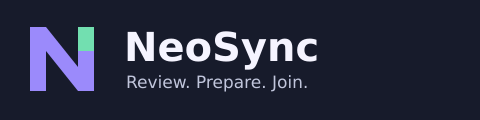
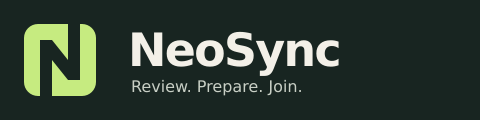
style(branding): introduce the interlocking NeoSync mark

Changed region(s): [[0.25, 0.25, 0.7188, 0.8], [0.0312, 0.2, 0.2188, 0.8]]

diff --git a/docs/neosync/branding-preview.html b/docs/neosync/branding-preview.html
@@ -1,0 +1,96 @@
+<!doctype html>
+<html lang="en">
+<head>
+  <meta charset="utf-8">
+  <meta name="viewport" content="width=device-width, initial-scale=1">
+  <title>NeoSync — Identity preview</title>
+  <style>
+    * { box-sizing: border-box; }
+    body { margin: 0; background: #f3f0e8; color: #182521; font: 16px/1.6 "DejaVu Sans", sans-serif; }
+    main { max-width: 1100px; margin: auto; padding: 36px 24px 64px; }
+    h1 { margin: 0; font-size: clamp(32px, 6vw, 54px); letter-spacing: -2px; }
+    h2 { margin: 32px 0 16px; font-size: 24px; }
+    p { max-width: 720px; }
+    a { color: inherit; text-underline-offset: 4px; }
+    .stage { display: grid; place-items: center; min-height: 330px; padding: 32px; background: #182521; color: #c6eb80; }
+    .stage[data-palette="paper"] { background: #f3f0e8; color: #182521; outline: 1px solid #a8b1a7; outline-offset: -1px; }
+    .stage[data-palette="reverse"] { background: #182521; color: #f3f0e8; }
+    .stage[data-palette="accent"] { background: #c6eb80; color: #182521; }
+    .lockup { display: flex; align-items: center; gap: 18px; }
+    .mark { display: block; width: 138px; height: 138px; flex-shrink: 0; }
+    .wordmark { font-size: clamp(36px, 6vw, 64px); font-weight: bold; letter-spacing: -2.5px; }
+    fieldset { border: 0; padding: 0; margin: 20px 0; display: flex; gap: 16px; flex-wrap: wrap; }
+    legend { padding: 0; margin-bottom: 8px; }
+    label { cursor: pointer; }
+    input { accent-color: #182521; }
+    a:focus-visible, input:focus-visible { outline: 3px solid #496a20; outline-offset: 4px; }
+    .sizes { display: flex; align-items: end; gap: 36px; flex-wrap: wrap; padding: 24px 0; }
+    figure { margin: 0; }
+    figcaption { margin-top: 12px; font-size: 13px; }
+    .sizes img { display: block; image-rendering: auto; }
+    .downloads { display: flex; flex-wrap: wrap; gap: 14px 28px; }
+    .banner { display: block; width: min(100%, 480px); height: auto; }
+    footer { border-top: 1px solid #a8b1a7; margin-top: 40px; padding-top: 20px; font-size: 14px; }
+    @media (max-width: 540px) {
+      main { padding: 24px 16px 40px; }
+      .stage { min-height: 260px; padding: 20px; }
+      .lockup { gap: 8px; }
+      .mark { width: 80px; height: 80px; }
+      .wordmark { font-size: clamp(26px, 8vw, 36px); letter-spacing: -1.5px; }
+    }
+  </style>
+</head>
+<body>
+<main>
+  <h1>NeoSync identity</h1>
+  <p>Two matching elements interlock to suggest synchronization. Their shared opening
+    reveals an N in the negative space. The symbol works in a single color.</p>
+  <fieldset id="palettes">
+    <legend>Preview background and mark</legend>
+    <label><input type="radio" name="palette" value="default" checked> Ink / lime</label>
+    <label><input type="radio" name="palette" value="paper"> Ivory / ink</label>
+    <label><input type="radio" name="palette" value="reverse"> Ink / ivory</label>
+    <label><input type="radio" name="palette" value="accent"> Lime / ink</label>
+  </fieldset>
+  <div class="stage" id="stage" data-palette="default">
+    <div class="lockup">
+      <svg class="mark" viewBox="0 0 100 100" aria-label="NeoSync interlocking mark" role="img">
+        <g fill="currentColor">
+          <path d="M28 14H58V50L42 30H30V86H28A14 14 0 0 1 14 72V28A14 14 0 0 1 28 14Z"/>
+          <path d="M28 14H58V50L42 30H30V86H28A14 14 0 0 1 14 72V28A14 14 0 0 1 28 14Z" transform="rotate(180 50 50)"/>
+        </g>
+      </svg>
+      <span class="wordmark">NeoSync</span>
+    </div>
+  </div>
+  <h2>Actual-size launcher icons</h2>
+  <div class="sizes">
+    <figure><img src="../assets/neosync-icon-16.png" width="16" height="16" alt="NeoSync icon at 16 pixels"><figcaption>16 px</figcaption></figure>
+    <figure><img src="../assets/neosync-icon-32.png" width="32" height="32" alt="NeoSync icon at 32 pixels"><figcaption>32 px</figcaption></figure>
+    <figure><img src="../assets/neosync-icon.png" width="64" height="64" alt="NeoSync icon at 64 pixels"><figcaption>64 px</figcaption></figure>
+    <figure><img src="../assets/neosync-icon.png" width="128" height="128" alt="NeoSync icon at 128 pixels"><figcaption>128 px</figcaption></figure>
+  </div>
+  <h2>Installer banner</h2>
+  <img class="banner" src="../assets/neosync-installer.png" width="480" height="120" alt="NeoSync — Review. Prepare. Join.">
+  <h2>Files</h2>
+  <div class="downloads">
+    <a href="../assets/neosync-mark.svg" download>Editable SVG mark</a>
+    <a href="../assets/neosync-mark.png" download>Transparent PNG · 1024 px</a>
+    <a href="../assets/neosync-social.png" download>Social preview · 1280 × 640</a>
+    <a href="../assets/neosync-branding-preview.png" download>Four color applications</a>
+  </div>
+  <footer>
+    <a href="branding.md">Construction, sources, and usage rules</a> ·
+    <a href="../../README.md">Project README</a>
+    <p>These assets apply to subsequent builds. Previously published installers retain their original graphics.</p>
+  </footer>
+</main>
+<script>
+  document.getElementById('palettes').addEventListener('change', (event) => {
+    if (event.target.name === 'palette') {
+      document.getElementById('stage').dataset.palette = event.target.value;
+    }
+  });
+</script>
+</body>
+</html>

diff --git a/docs/neosync/branding.md b/docs/neosync/branding.md
@@ -1,12 +1,22 @@
 # NeoSync visual identity
 
-NeoSync uses an original geometric N with a violet body, a mint accent, and a
-dark background. The installer, launcher profile, mod list, and repository share
-this identity. The wordmark uses DejaVu Sans. Keep it flat and legible; avoid
-mascots, gradients, textures, and decorative effects.
+NeoSync uses an abstract geometric mark made from two interlocking elements.
+One element is rotated 180 degrees to form its matching counterpart, suggesting
+synchronization between client and server. The shared negative space reveals
+an N. The outer silhouette is a compact loop with two openings; the letter is
+the secondary reading. The opening stays transparent in every color application.
+The installer, launcher profile, mod list, and repository share this identity.
+The wordmark uses DejaVu Sans Bold with compact spacing.
+
+The palette is ink `#182521`, ivory `#f3f0e8`, and lime `#c6eb80`. Use lime on ink
+for launcher icons; use ink on ivory for documentation. Color supplements the
+silhouette; it is not needed to distinguish its two pieces. Keep the identity
+flat and legible; avoid mascots, gradients, textures, and decorative effects.
+The previous violet/mint mark remains part of historical release binaries.
 
 | Asset | Purpose |
 | --- | --- |
+| `docs/assets/neosync-mark.svg`, `neosync-mark.png` | Transparent, monochrome mark; SVG uses `currentColor`, PNG is 1024 × 1024. |
 | `docs/assets/neosync-icon.svg` | Editable square mark and repository header. |
 | `docs/assets/neosync-icon.png` | Installer's launcher-profile icon. |
 | `docs/assets/neosync-icon-16.png`, `neosync-icon-32.png` | Small installer window icons. |
@@ -14,12 +24,40 @@ mascots, gradients, textures, and decorative effects.
 | `docs/assets/neosync-installer.svg` | Editable wordmark and installer banner. |
 | `docs/assets/neosync-installer.png` | Installer banner. |
 | `docs/assets/neosync-social.svg`, `neosync-social.png` | Editable 1280 × 640 GitHub social preview and rendered upload. |
+| `docs/assets/neosync-branding-preview.svg`, `neosync-branding-preview.png` | Four flat color applications and small-size review. |
 | `src/main/resources/neosync_logo.png` | Mod-list banner, generated from the same wordmark. |
 
 After editing the SVGs, run `scripts/render_branding.sh` with librsvg, ImageMagick,
 and DejaVu Sans installed. Commit the generated PNGs so normal Java builds need no
 graphics tools. Inspect both the square icon and the banner at their display
 sizes before publishing.
+
+Keep at least 14% of the mark canvas clear around the shape. Do not close the
+shared opening, add outlines, or stretch either element independently. The 16 px
+and 32 px icons are rendered from the same source and must retain the opening.
+The [interactive preview](branding-preview.html) shows the mark on light, dark,
+and accent backgrounds, with downloadable files and actual-size samples.
+
+## Design references
+
+The September 2026 revision followed research through Tavily and the
+`logo-generator` skill's exploration workflow. The geometry was drawn directly
+as editable SVG; no stock symbol or generated raster was traced.
+
+- [Jacob Cass, Smashing Magazine: Vital Tips For Effective Logo Design](https://www.smashingmagazine.com/2009/08/vital-tips-for-effective-logo-design)
+  recommends a distinctive, simple silhouette, vector construction, and checking
+  single-color, reversed, and small-size applications.
+- [VistaPrint: Six key principles of logo design](https://www.vistaprint.com/hub/principles-of-logo-design)
+  discusses proportion and checking readability at favicon sizes.
+- [The Newton Agency: Why AI-Generated Logos Look Generic](https://www.thenewtonagencystudio.com/post/why-ai-generated-logos-look-generic)
+  offers a designer's critique of interchangeable visual formulas. This is
+  professional opinion, not an empirical test of originality or quality.
+
+For this project, avoiding generic styling means using the interlocking form
+and its negative space consistently, with restrained typography across assets.
+Recognizability is a design aim; it has not been measured in a user study.
+
+## Runtime packaging
 
 The mod retains the technical identifier `neoforge` and the NeoForge base version
 for dependency checks. Its visible name is NeoSync, with upstream attribution

diff --git a/docs/neosync/community-health.md b/docs/neosync/community-health.md
@@ -67,9 +67,16 @@ Gradle invocations to respect the source-generation workflow.
 - JUnit: 236 tests in 27 suites; zero failures, errors, or skipped tests.
 - Actionlint 1.7.12 passed for all workflows.
 - `bash -n scripts/render_branding.sh` and `git diff --check` passed.
-- Checked 65 local documentation links, README navigation anchors, six matched
+- Checked local documentation links, README navigation anchors, six matched
   details blocks, and preservation of all nine original README body sections.
 - The prepared social preview is a valid 1280 × 640 PNG.
+- Rebuilt the installer and sources after the final interlocking-logo revision.
+  `python3 scripts/prepare_release.py --check` passed: current graphics are
+  embedded, archive identities and licenses are preserved, and non-graphics FML
+  contents match the pinned upstream digests. No release was published.
+- Inspected the rendered mark, installer banner, and social preview; checked
+  SVG syntax, exported PNG dimensions, and preview links. Browser interaction
+  testing was not run because this environment has no installed browser engine.
 
 All five README badge URLs returned valid SVG responses after publication.
 The first remote build could not start: GitHub reported, "The job was not
@@ -80,7 +87,8 @@ reports this actual status; local success does not replace a remote result.
 
 A separate Windows workflow uses PowerShell and `gradlew.bat` for assembly,
 formatting, unit tests, and the installed dedicated-server self-test. Its syntax
-has been checked; Windows execution remains pending the GitHub account fix.
+has been checked. [Windows run 36324665935](https://github.com/enderliker/NeoSync/actions/runs/36324665935)
+was also prevented from starting by the same billing lock.
 These checks do not constitute a new installed gameplay acceptance run. Published
 beta evidence remains in [Phase 7](phase-7.md).
 
@@ -101,3 +109,54 @@ These are suggested values; this review does not change repository settings.
 The current About description still describes synchronization as planned, topics
 are empty, and no website is configured. These settings should be updated by the
 maintainer. No replacement license or additional product claims are needed.
+
+## Files changed during this review
+
+### Created
+
+- `.github/ISSUE_TEMPLATE/bug_report.yml`
+- `.github/ISSUE_TEMPLATE/config.yml`
+- `.github/ISSUE_TEMPLATE/feature_request.yml`
+- `.github/PULL_REQUEST_TEMPLATE.md`
+- `.github/workflows/test-windows.yml`
+- `CHANGELOG.md`
+- `CODE_OF_CONDUCT.md`
+- `SECURITY.md`
+- `docs/assets/neosync-branding-preview.png`
+- `docs/assets/neosync-branding-preview.svg`
+- `docs/assets/neosync-mark.png`
+- `docs/assets/neosync-mark.svg`
+- `docs/assets/neosync-social.png`
+- `docs/assets/neosync-social.svg`
+- `docs/neosync/branding-preview.html`
+- `docs/neosync/community-health.md`
+
+### Modified
+
+- `.github/renovate.json`
+- `.github/workflows/build-prs.yml`
+- `.github/workflows/check-local-changes.yml`
+- `.github/workflows/release.yml`
+- `.github/workflows/test-prs.yml`
+- `.gitignore`
+- `README.md`
+- `docs/CONTRIBUTING.md`
+- `docs/assets/neosync-icon-16.png`
+- `docs/assets/neosync-icon-32.png`
+- `docs/assets/neosync-icon.png`
+- `docs/assets/neosync-icon.svg`
+- `docs/assets/neosync-installer.png`
+- `docs/assets/neosync-installer.svg`
+- `docs/assets/neosync-startup.png`
+- `docs/neosync/branding.md`
+- `docs/neosync/releases.md`
+- `projects/neoforge/build.gradle`
+- `scripts/render_branding.sh`
+- `src/main/resources/neosync_logo.png`
+
+### Replaced or removed
+
+- `.github/ISSUE_TEMPLATE/feature_request.md`
+- `.github/ISSUE_TEMPLATE/issue_report.md`
+- `.github/workflows/publish-jcc.yml`
+- `.github/workflows/publish-prs.yml`

diff --git a/CHANGELOG.md b/CHANGELOG.md
@@ -21,6 +21,10 @@ installing. Published artifacts and tags remain immutable.
 - Added Windows CI for assembly, formatting, unit tests, and the installed
   dedicated-server self-test using Java 21 and the Windows Gradle wrapper.
 - Corrected the historical alpha.4 release link and narrowed Python ignore rules.
+- Replaced the violet/mint mark with two interlocking geometric elements that
+  reveal an N in negative space, using an ink, ivory,
+  and lime palette across icons, installer graphics, and documentation. Added
+  transparent exports and an interactive preview; published assets are unchanged.
 
 ### Fixed
 
